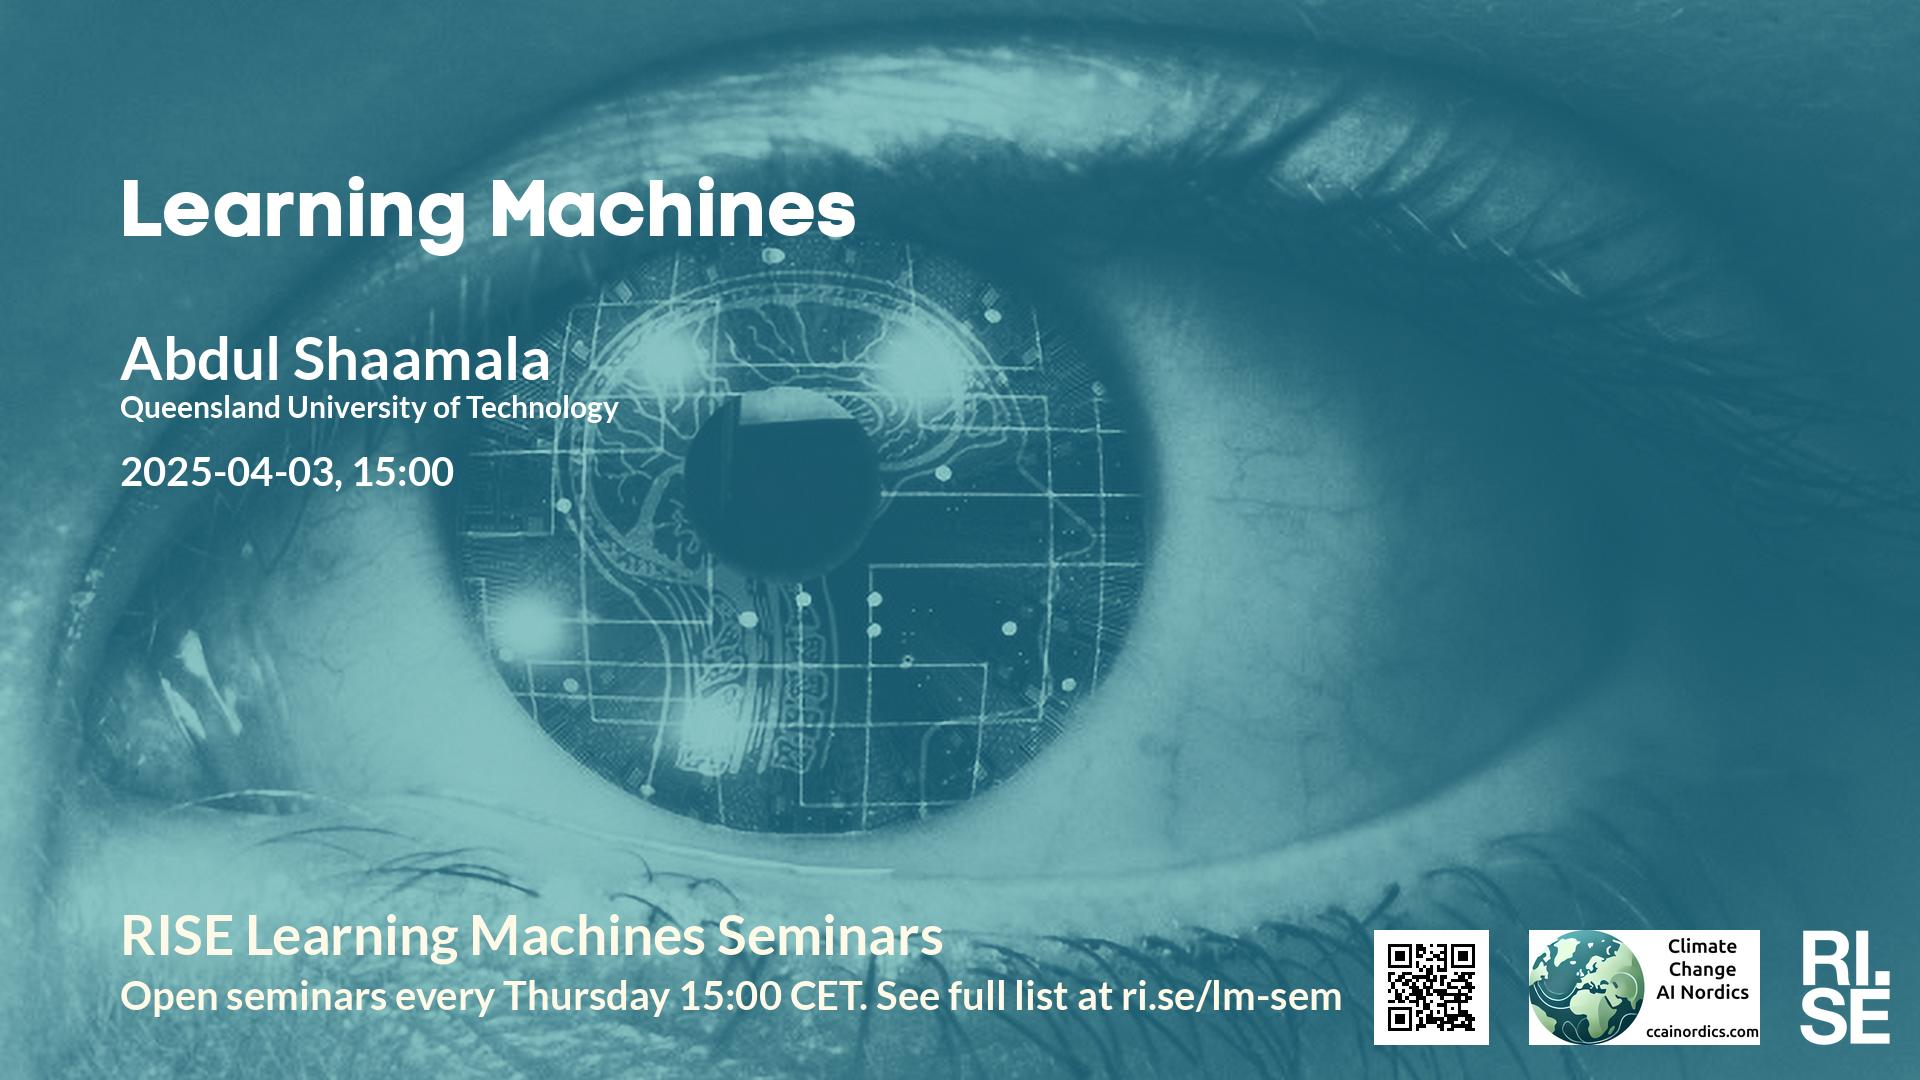
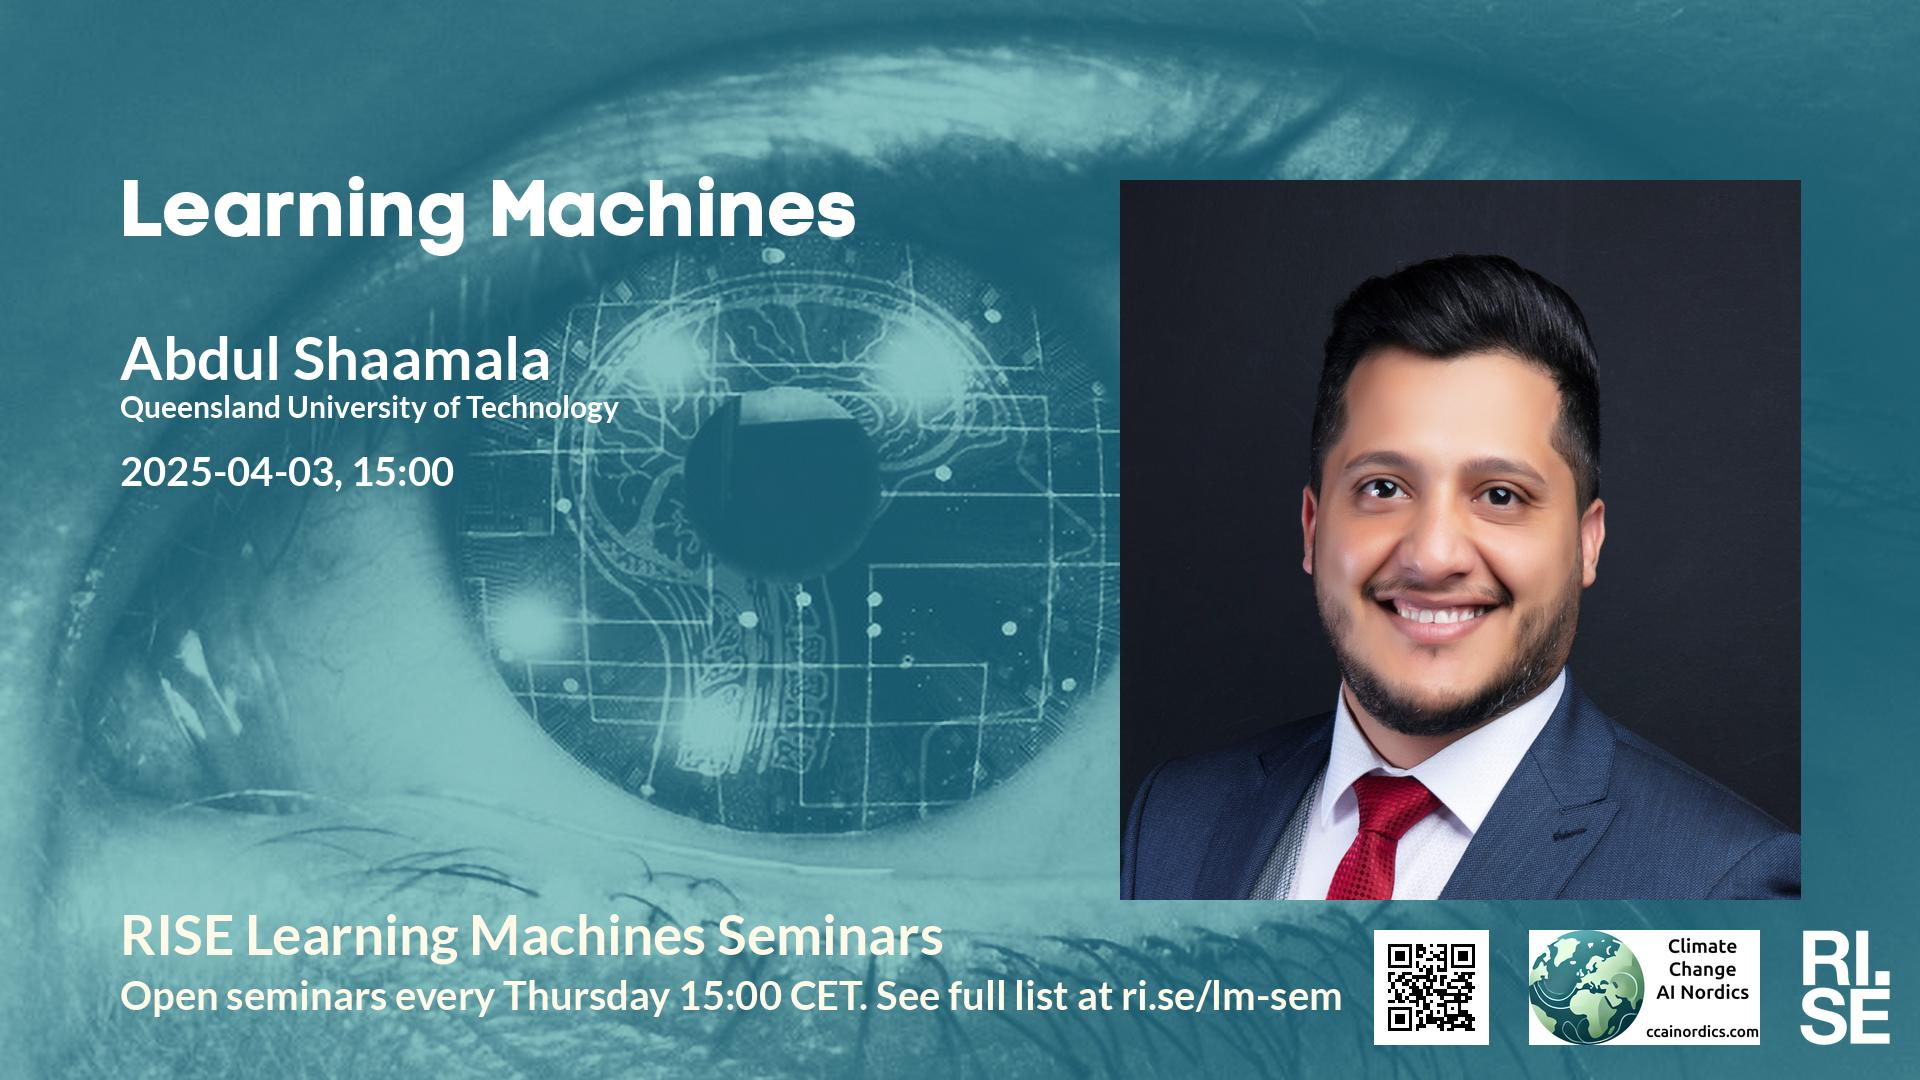
Updated plan on web site.

Changed region(s): [[0.5625, 0.1528, 0.9375, 0.8556]]

diff --git a/lm/index.md b/lm/index.md
@@ -21,7 +21,7 @@ table {border-collapse: collapse;}
 |  2025-03-13  |  [Sherrie Wang, MIT](2025-03-13.md)  |  [photo](photo-sherrie-wang.jpg)  |  [social media ](social-media-sherrie-wang.jpg)  |  [meeting backdrop ](meeting-backdrop-sherrie-wang.jpg)  |  [youtube thumbnail ](youtube-thumbnail-sherrie-wang.jpg)  |  S~~TA~~BP  |
 | <span style="color:grey"> 2025-03-20 </span> | <span style="color:grey"> Sasha L. ? </span> | <span style="color:grey">  </span> | <span style="color:grey">  </span> | <span style="color:grey">  </span> | <span style="color:grey">  </span> | <span style="color:grey"> S~~TABP~~ </span> |
 |  2025-03-27  |  [María J. Molina, University of Maryland](2025-03-27.md)  |  [photo](photo-maria-j.-molina.jpg)  |  [social media ](social-media-maria-j.-molina.jpg)  |  [meeting backdrop ](meeting-backdrop-maria-j.-molina.jpg)  |  [youtube thumbnail ](youtube-thumbnail-maria-j.-molina.jpg)  |  S~~TAB~~P  |
-|  2025-04-03  |  [Abdul Shaamala, Queensland University of Technology](2025-04-03.md)  |    |  [social media ](social-media-abdul-shaamala.jpg)  |  [meeting backdrop ](meeting-backdrop-abdul-shaamala.jpg)  |  [youtube thumbnail ](youtube-thumbnail-abdul-shaamala.jpg)  |  S~~TABP~~  |
+|  2025-04-03  |  [Abdul Shaamala, Queensland University of Technology](2025-04-03.md)  |  [photo](photo-abdul-shaamala.jpg)  |  [social media ](social-media-abdul-shaamala.jpg)  |  [meeting backdrop ](meeting-backdrop-abdul-shaamala.jpg)  |  [youtube thumbnail ](youtube-thumbnail-abdul-shaamala.jpg)  |  S~~TAB~~P  |
 | <span style="color:purple"> 2025-04-10 </span> | <span style="color:purple"> *Up for grabs!!!* </span> | <span style="color:purple">  </span> | <span style="color:purple">  </span> | <span style="color:purple">  </span> | <span style="color:purple">  </span> | <span style="color:purple"> ~~STABP~~ </span> |
 | <span style="color:red"> 2025-04-17 </span> | <span style="color:red"> Holy Thursday </span> | <span style="color:red">  </span> | <span style="color:red">  </span> | <span style="color:red">  </span> | <span style="color:red">  </span> | <span style="color:red"> CANCELLED </span> |
 |  2025-04-24  |  [John Martinsson, RISE and Lund University](2025-04-24.md)  |  [photo](photo-john-martinsson.jpg)  |  [social media ](social-media-john-martinsson.jpg)  |  [meeting backdrop ](meeting-backdrop-john-martinsson.jpg)  |  [youtube thumbnail ](youtube-thumbnail-john-martinsson.jpg)  |  S~~TA~~BP  |
